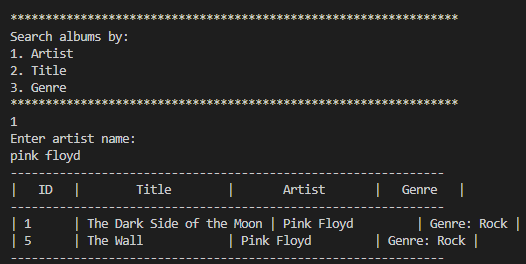
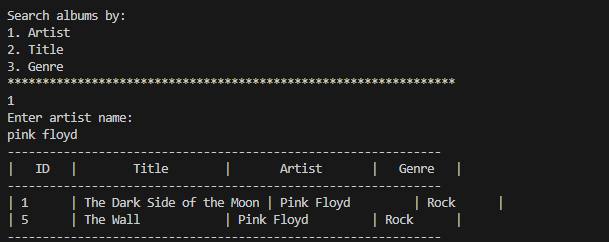
docs: improve clarity and consistency across markdown files (#8)
Enhanced documentation for better readability and structure. Minor code updates included to align with clarified instructions and improve overall consistency.

Changed region(s): [[0.0, 0.1157, 1.0, 0.9835], [0.0, 0.0289, 0.8821, 0.0868], [0.0, 0.6653, 0.0304, 0.7521]]

diff --git a/completed/MusicStore/MusicStoreService.cs b/completed/MusicStore/MusicStoreService.cs
@@ -18,7 +18,7 @@ namespace MusicStore
             return _repository.Albums;
         }
 
-        public Album GetAlbum(int id)
+        public Album GetAlbumById(int id)
         {
             return _repository.Albums.FirstOrDefault(a => a.Id == id);
         }
@@ -66,12 +66,9 @@ namespace MusicStore
             return _repository.Albums.Where(a => a.Artist.Equals(artist, StringComparison.OrdinalIgnoreCase)).ToList();
         }
 
-        public List<Album> SearchAlbumsByGenre(string genre)
-        {
-            var genreId = _repository.Albums.FirstOrDefault(a => a.Genre.Name.Equals(genre, StringComparison.OrdinalIgnoreCase))?.Genre.Id;
-            if (genreId != null)
-                return _repository.Albums.Where(a => a.Genre.Id == genreId).ToList();
-            return new List<Album>();
+        public List<Album> SearchAlbumsByGenre(string genreName)
+        {           
+            return _repository.Albums.Where(a => a.Genre.Name.Equals(genreName, StringComparison.OrdinalIgnoreCase)).ToList();
         }
     }
 }

diff --git a/completed/MusicStore/Program.cs b/completed/MusicStore/Program.cs
@@ -65,7 +65,7 @@ namespace MusicStore
             Console.WriteLine("--------------------------------------------------------------");
             foreach (var album in albums)
             {
-                Console.WriteLine($"| {album.Id,-6} | {album.Title,-19} | {album.Artist,-18} | {album.Genre,-9} |");
+                Console.WriteLine($"| {album.Id,-6} | {album.Title,-19} | {album.Artist,-18} | {album.Genre.Name,-9} |");
             }
             Console.WriteLine("--------------------------------------------------------------");
         }

diff --git a/04-Step04.md b/04-Step04.md
@@ -2,16 +2,48 @@
 
 In this step, we will add unit tests to the `MusicStoreService` class to verify the functionality of the CRUD operations. We will use the NUnit and Moq frameworks to write the unit tests.
 
-1.  **Refactor to Repository Pattern**
+**Refactor to Repository Pattern**
 
-    First, let's refactor the `MusicStoreService` class to use a repository pattern. This will help separate data access logic from service logic and make it easier to mock data for testing.
+   First, let's refactor the `MusicStoreService` class to use a repository pattern. This will help separate data access logic from service logic, making the codebase more modular and easier to test with mock data.
 
-    **Create MusicStoreRepository**
+    
+ 1. **Add albums.json File**
+
+    Create a new file `albums.json` in the project root directory. Add sample data to the file. Here is an example:
+
+    ```json
+    [
+      {
+        "Id": 1,
+        "Title": "The Dark Side of the Moon",
+        "Artist": "Pink Floyd",
+        "ReleaseDate": "1973-03-01T00:00:00",
+        "Genre": {
+          "Id": 1,
+          "Name": "Rock"
+        }
+      }
+    ]
+    ```
+     Use Copilot to generate more albums in the `albums.json` file.
+ 
+ 
+     Update the project file `MusicStore.csproj` to include this file in the output directory:
+
+     ```xml
+    <ItemGroup>
+        <Content Include="albums.json">
+            <CopyToOutputDirectory>PreserveNewest</CopyToOutputDirectory>
+        </Content>
+    </ItemGroup>
+     ```
+
+    
+2. **Create MusicStoreRepository**
 
     Add a new file `MusicStoreRepository.cs` to the project under `MusicStore` folder and define the `MusicStoreRepository` class as shown below. The sample data is read from a JSON file `albums.json` and stored in the `Albums` property.
 
     ```csharp
-
     using System.Collections.Generic;
 
     namespace MusicStore
@@ -50,36 +82,7 @@ In this step, we will add unit tests to the `MusicStoreService` class to verify 
 
     ![image](/media/374979958-8f0799d2-ec1f-4b8e-9f5a-16f8d0bc2611.png)
 
-    **Add albums.json File**
-
-    Create a new file `albums.json` in the project root directory. Update the project file `MusicStore.csproj` to include this file in the output directory:
-
-    ```xml
-    <ItemGroup>
-        <Content Include="albums.json">
-            <CopyToOutputDirectory>PreserveNewest</CopyToOutputDirectory>
-        </Content>
-    </ItemGroup>
-    ```
-
-    Add sample data to the `albums.json` file. Here is an example:
-
-    Use Copilot to generate more albums in the `albums.json` file.
-
-    ```json
-    [
-      {
-        "Id": 1,
-        "Title": "The Dark Side of the Moon",
-        "Artist": "Pink Floyd",
-        "ReleaseDate": "1973-03-01T00:00:00",
-        "Genre": {
-          "Id": 1,
-          "Name": "Rock"
-        }
-      }
-    ]
-    ```
+    
 
 2.  **Update MusicStoreService**
 

diff --git a/03-Step03.md b/03-Step03.md
@@ -33,7 +33,22 @@ In this step, we will refactor the code to address some issues and improve its q
 
 3. **Introduce Custom Exception**
 
-   Create a custom exception class `AlbumAlreadyExistsException`. Refactor the `AddAlbum` method to throw this custom exception when an album already exists.
+   Create a custom exception class `DuplicateAlbumException`. 
+    ```csharp
+    using System;
+
+    namespace MusicStore
+    {
+        public class DuplicateAlbumException : Exception
+        {
+            public DuplicateAlbumException(string message) : base(message)
+            {
+            }
+        }
+    }
+    ```
+
+  Refactor the `AddAlbum` method in `MusicStoreService` class to throw this custom exception when an album already exists.
 
 4. **Update Application for User Interaction**
 
@@ -49,7 +64,7 @@ In this step, we will refactor the code to address some issues and improve its q
         Console.WriteLine("--------------------------------------------------------------");
         foreach (var album in albums)
         {
-             Console.WriteLine($"| {album.Id,-6} | {album.Title,-19} | {album.Artist,-18} | {album.Genre,-9} |");
+             Console.WriteLine($"| {album.Id,-6} | {album.Title,-19} | {album.Artist,-18} | {album.Genre.Name,-9} |");
         }
         Console.WriteLine("--------------------------------------------------------------");
    }
@@ -67,10 +82,14 @@ In this step, we will refactor the code to address some issues and improve its q
         var musicStoreService = new MusicStoreService();
         var albums = musicStoreService.GetAlbums();
 
-        Console.WriteLine("Choose an option:");
-        Console.WriteLine("1. Search albums by artist");
-        Console.WriteLine("2. Search albums by title");
-        Console.WriteLine("3. Search albums by genre");
+        Console.WriteLine();
+	    Console.WriteLine("****************************************************************");
+	    Console.WriteLine("Search albums by:");
+	    Console.WriteLine("1. Artist");
+	    Console.WriteLine("2. Title");
+	    Console.WriteLine("3. Genre");
+	    Console.WriteLine("****************************************************************");
+
 
         var option = Console.ReadLine();
 

diff --git a/02-Step02.md b/02-Step02.md
@@ -203,12 +203,10 @@ public class Album
         return _albums.Where(a => a.Artist == artist).ToList();
    }
 
-   public List<Album> SearchAlbumsByGenre(string genre)
+   public List<Album> SearchAlbumsByGenre(string genreName)
    {
-        var genreId = _albums.FirstOrDefault(a => a.Genre.Name == genre)?.Genre.Id;
-        if (genreId != null)
-                  return _albums.Where(a => a.Genre.Id == genreId).ToList();
-        return new List<Album>();
+       
+     return _albums.Where(a => a.Genre.Name == genreName).ToList();
    }
    ```
 
